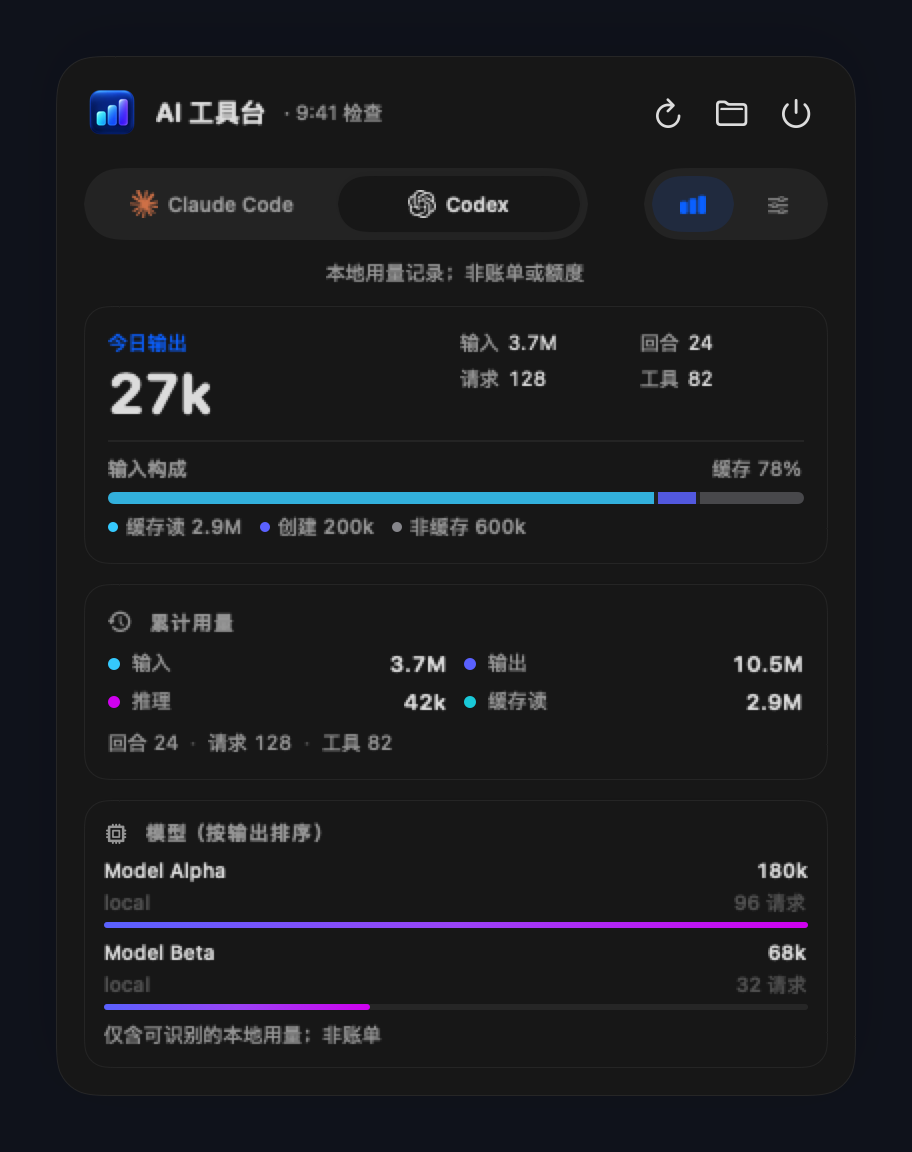
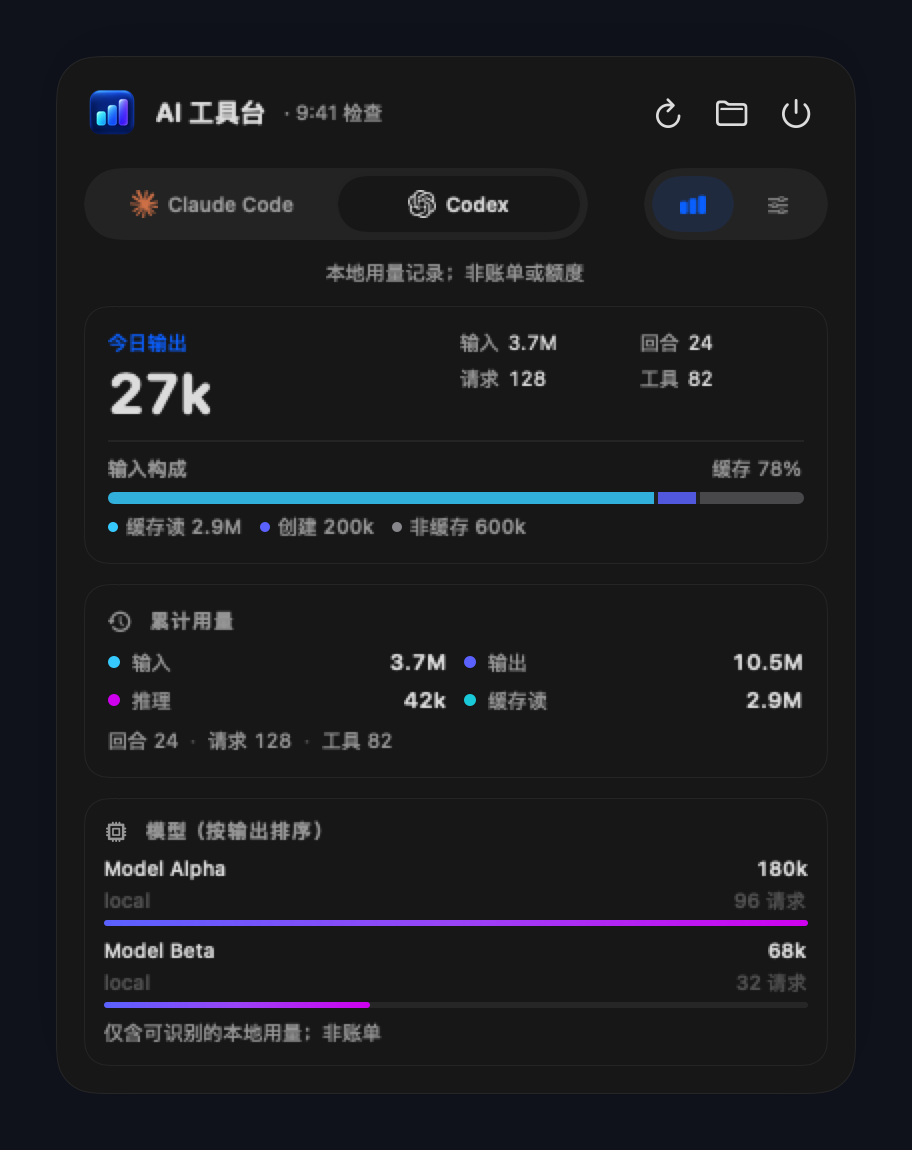
Refresh documentation screenshots for the fitted panel
The renders are measured once from the fitting size, which captured a frame
from before the panel's measured height had converged and baked dead space
into the committed screenshots. Let the size settle before capturing.

diff --git a/Tests/AIUsageTests/DocumentationRenderTests.swift b/Tests/AIUsageTests/DocumentationRenderTests.swift
@@ -100,7 +100,18 @@ final class DocumentationRenderTests: XCTestCase {
             .environment(\.colorScheme, dark ? .dark : .light)
         let view = NSHostingView(rootView: wrapped)
         view.appearance = NSAppearance(named: dark ? .darkAqua : .aqua)
+
+        // The panel sizes itself from its measured body height, which converges over a
+        // layout pass or two. Measuring once captures a pre-convergence frame (visible
+        // as dead space in the screenshot), so let it settle first.
         view.frame = NSRect(origin: .zero, size: view.fittingSize)
+        for _ in 0..<8 {
+            view.layoutSubtreeIfNeeded()
+            RunLoop.current.run(until: Date().addingTimeInterval(0.02))
+            let settled = view.fittingSize
+            if abs(settled.height - view.frame.height) < 0.5 { break }
+            view.frame = NSRect(origin: .zero, size: settled)
+        }
         view.layoutSubtreeIfNeeded()
         let bitmap = try XCTUnwrap(view.bitmapImageRepForCachingDisplay(in: view.bounds))
         view.cacheDisplay(in: view.bounds, to: bitmap)
